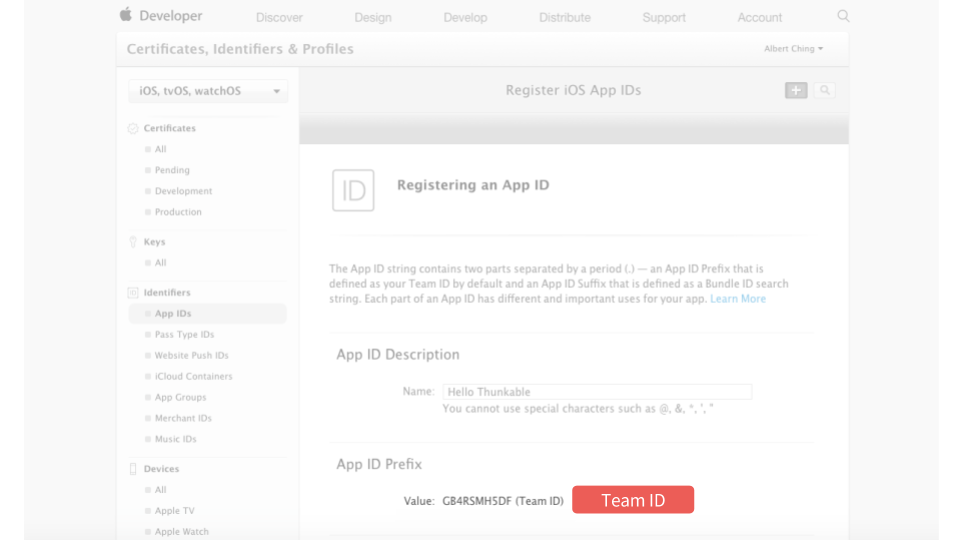
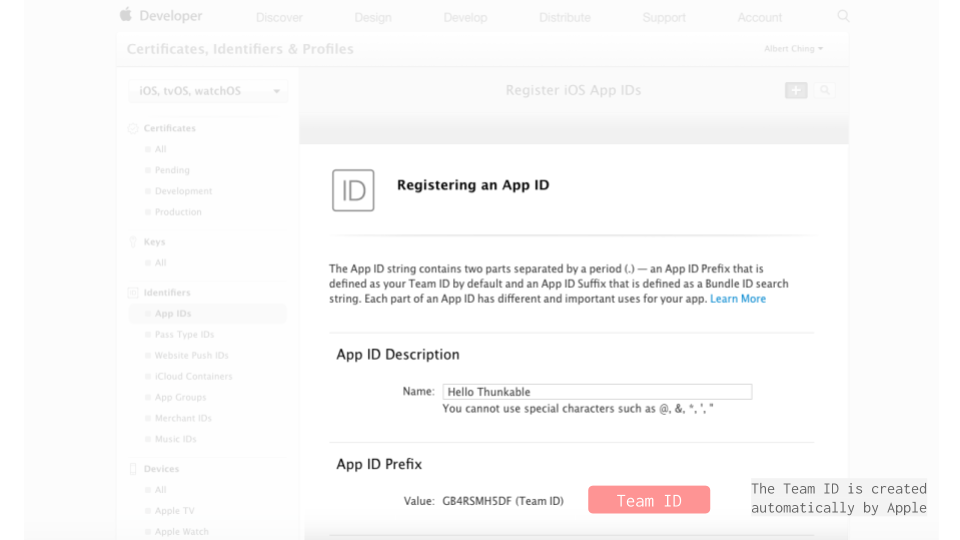
Creates assets/publish-ios-fig-8.png
Auto commit by GitBook Editor

diff --git a/ios/publish.md b/ios/publish.md
@@ -4,16 +4,27 @@
 
 ---
 
-Publishing your app to the App Store can be a lengthy and expensive process.  Apple holds a high standard for apps that are approved for distribution in the App Store so please review Apple's policies and guidelines to make sure your app is in compliance before you sign up for the Apple Developer Program.
+For app developers looking to distribute their apps widely, publishing your app to the App Store can be a very rewarding process. 
 
-To get started publishing your app to the App Store:
+Thunkable has eliminated a few steps from the normal iOS submission process to make it easier for our developers including sending new builds directly to iTunes Connect, Apple's portal for managing App Store submissions, auto-incrementing each new build and enabling building apps from non-Mac computers \(usually a Mac is required\).
 
-* [Enroll in the Apple Developer Program](#1--enroll-in-the-apple-developer-program-currently-99year) \(currently $99 / year\)
-* [Register an App ID](#2--register-an-app-id-from-apple-similar-to-package-name-in-android-you-should-be-given-a-team-id) from Apple \(similar to package name in Android\)
-* [On Thunkable, navigate to the App Settings Page and enter the Team ID, Bundle ID, and App Name and upload and App Icon](#3--on-thunkable-navigate-to-the-app-settings-page-and-enter-the-team-id-bundle-id-and-app-name-and-upload-and-app-icon) 
-* [When you are ready, select Publish and enter your Apple credentials](#4--when-you-are-ready-to-publish-select---and-enter-your-apple-credentials-same-as-your-apple-developer-program-membership-id-you-will-get-an-email-from-itunesconnect-when-the-app-has-been-submitted--if-youre-app-has-been-successfully-uploaded-it-should-appear-in-your-itunesconnect-account-like-below).  You will get an email from iTunesConnect when the app has been uploaded.
-* [Follow the instructions on iTunesConnect to submit your app for review](#5--follow-the-instructions-on-itunesconnect-to-submit-your-app-for-review)
-* [Troubleshooting](#publish-troubleshooting)
+Do note that Apple holds a high standard for apps that are approved for distribution in the App Store so please review Apple's policies and guidelines to make sure your app is in compliance before you sign up for the Apple Developer Program.
+
+To publish your app to the App Store:
+
+* On Apple
+  * [Enroll in the Apple Developer Program](#1--enroll-in-the-apple-developer-program-currently-99year) \(currently $99 / year\)
+  * [Register an App ID in your Apple Developer account ](#2--register-an-app-id-in-your-apple-developer-account-apple-will-automatically-generate-a-team-id----)
+  * [Create a new app in iTunes Connect](#3--create-a-new-app-in-itunes-connect-itunes-connect-is-your-portal-for-managing-your-submission-to-the-app-store)
+* On Thunkable
+  * [Update your App Publish settings](#4--on-thunkable-update-your-app-publish-settings-to-find-it-click-on-the-app-icon-on-the-top-left-and-then-the-properties-tab)
+  * [When you are ready, select Publish to submit your latest app to iTunes Connect](#5--when-you-are-ready-to-publish-select----to-submit-your-latest-app-to-itunes-connect-this-does-not-yet-publish-your-app-to-the-app-store). This does _not_ yet publish your app to the App Store
+* Back on Apple
+  * Follow the instructions on iTunes Connect to submit your app for review
+
+If you are not seeing your 
+
+* Troubleshooting
 
 ---
 
@@ -23,23 +34,43 @@ To get started publishing your app to the App Store:
 
 ---
 
-### 2 / [Register an App ID](https://developer.apple.com/account/ios/identifier/bundle/create) from Apple \(similar to package name in Android\). You should be given a Team ID.
+### 2 / [Register an App ID](https://developer.apple.com/account/ios/identifier/bundle/create) in your Apple Developer account. Apple will automatically generate a `Team ID` . . . 
 
 ![](/assets/publish-ios-fig-4.png)
 
-### After following the steps, you should also get a Bundle ID page like the one below.![](/assets/publish-ios-fig-5.png)
+### and you will create a `Bundle ID` \(similar to a package name in Android\)
+
+![](/assets/publish-ios-fig-5.png)
 
 ---
 
-### 3 / On Thunkable, navigate to the App Settings Page and enter the Team ID, Bundle ID, and App Name and upload an App Icon
+### 3 / [Create a new app](https://itunesconnect.apple.com/) in iTunes Connect. iTunes Connect is your portal for managing your submission to the App Store.
+
+### ![](/assets/publish-ios-fig-6.png)
+
+### You will need to link the `Bundle ID` you created earlier
+
+![](/assets/publish-ios-fig-7.png)
+
+---
+
+### 4 / On Thunkable, update your App publish settings. To find it, click on the App Icon on the top left and then the Properties tab.
+
+![](/assets/publish-ios-fig-8.png)
 
 ![](/assets/publish-ios-fig-6.png)
 
 ---
 
-### 4 / When you are ready to publish, select ![](/assets/publish-ios.png) and enter your Apple credentials \(same as your Apple Developer Program membership ID\). You will get an email from iTunesConnect when the app has been submitted![](/assets/publish-ios-fig-2.png)![](/assets/publish-ios-fig-3.png)If you're app has been successfully uploaded, it should appear in your iTunesConnect account like below:
+### 5 / When you are ready to publish, select ![](/assets/publish-ios.png)  to submit your latest app to iTunes Connect. This does _not_ yet publish your app to the App Store.
 
-### You can see all your Builds when clicking on the TestFlight tab as shown below:
+### ![](/assets/publish-ios-fig-2.png)
+
+### You will also have to enter your Apple developer login credentials![](/assets/publish-ios-fig-3.png)
+
+### When your app has been successfully uploaded, you will receive an email from iTunes Connect. It will also appear in your dashboard 
+
+### 
 
 ---
 
